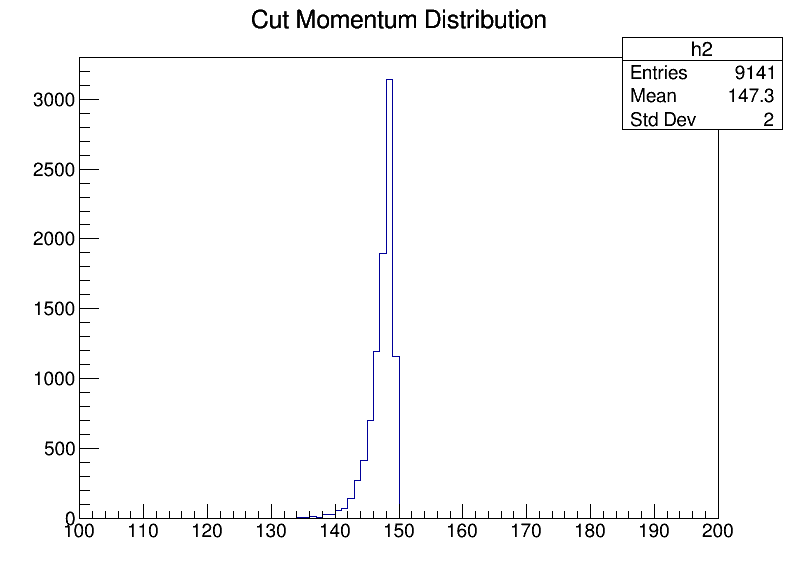
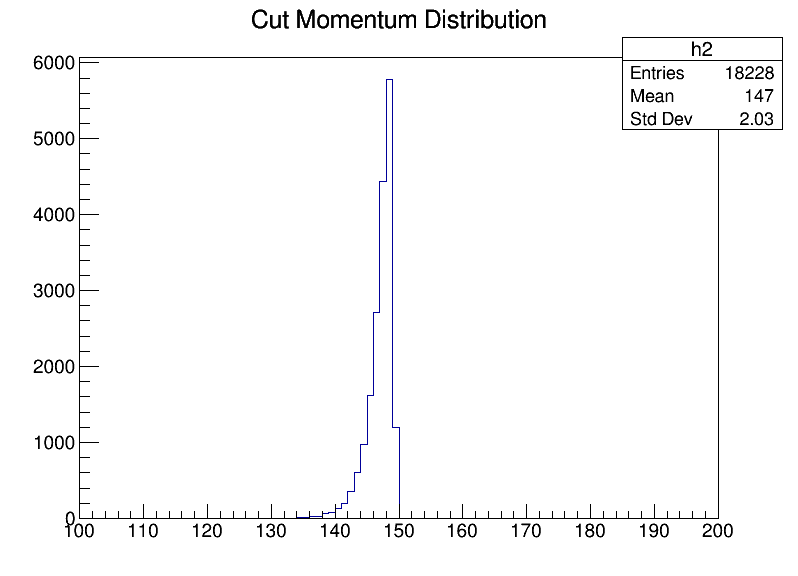
Ajustei o exercicio 4

diff --git a/Trabalho3/ex4/exercicio4.C b/Trabalho3/ex4/exercicio4.C
@@ -31,7 +31,7 @@ void exercicio4() {
 	float e_mean = h1->GetMean();
 	for (Int_t i=0; i<noE; i++){
 		tree->GetEntry(i);
-		if (e > e_mean + 0.2){
+		if (e > e_mean + 0.2 || e < e_mean - 0.2){
 			float p = sqrt(px*px + py*py + pz*pz);
 			h2->Fill(p);
 		}	
